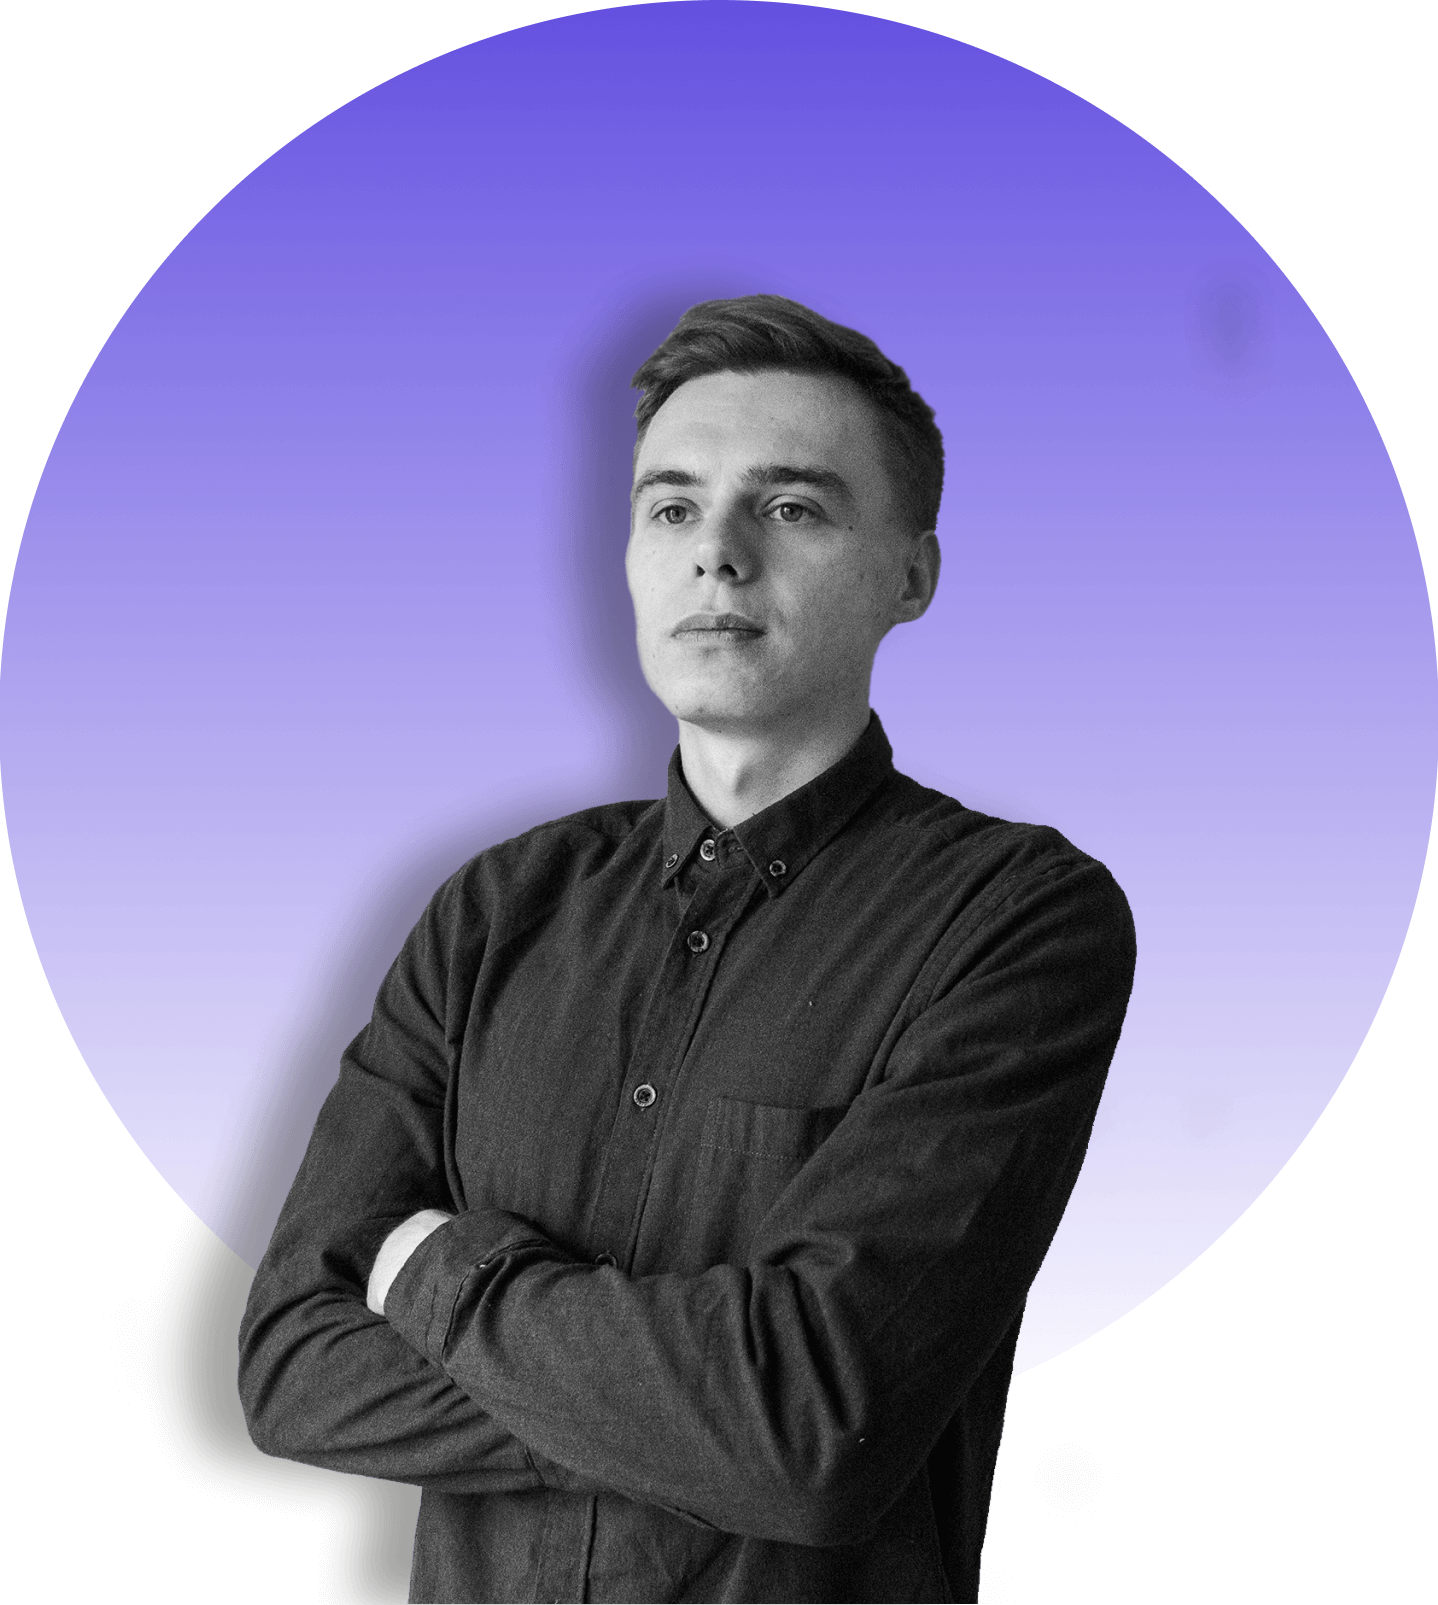
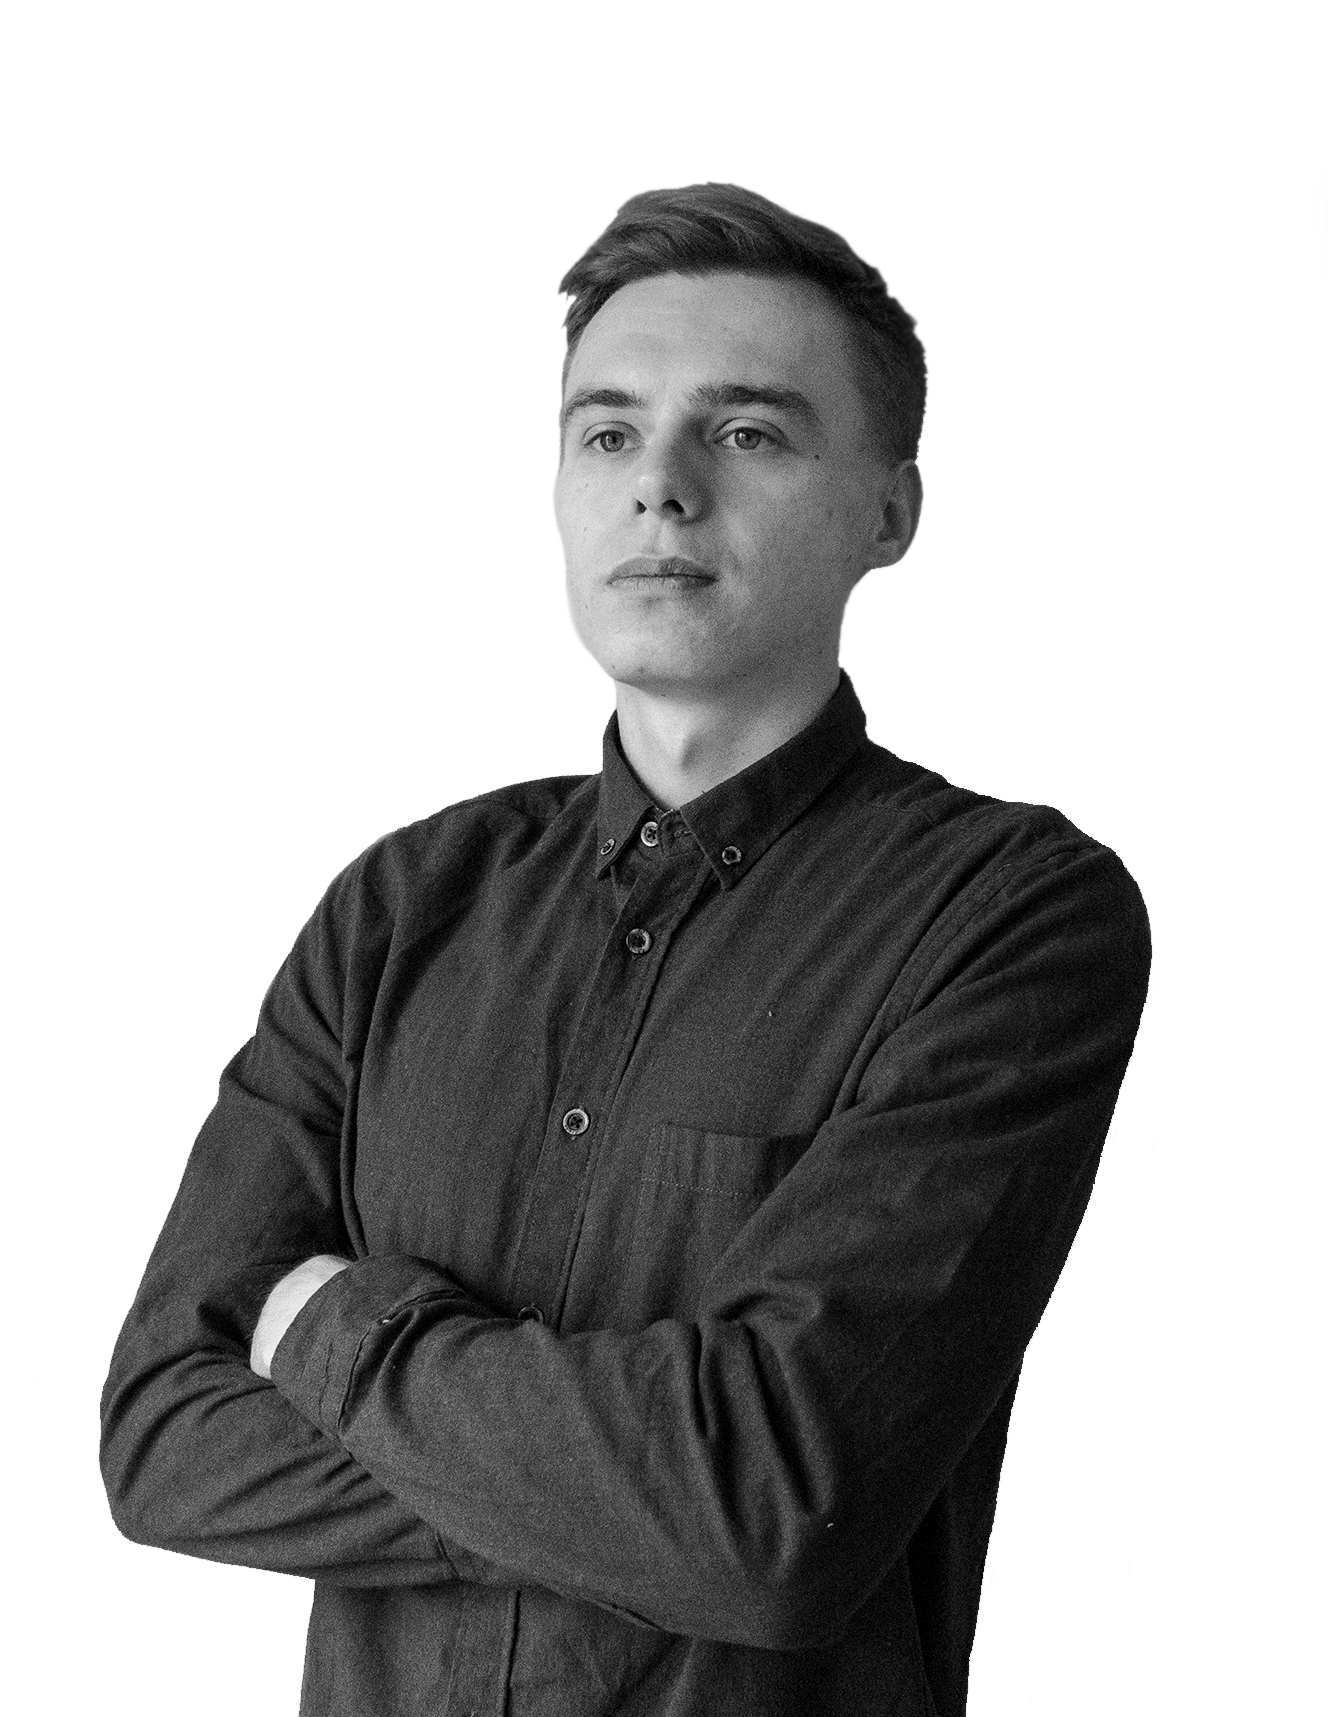
Remake hero image

diff --git a/src/style/sections/_hero.scss b/src/style/sections/_hero.scss
@@ -5,13 +5,34 @@
   justify-content: space-between;
   position: relative;
 
-  .hero-img {
-    position: absolute !important;
+  .hero-img-wrapper {
+    position: absolute;
     bottom: 4px;
     left: 50%;
-    width: clamp(540px, 75vw, 780px);
+    width: clamp(510px, 75vw, 780px);
     max-height: 100vh;
     transform: translate(-50%);
+
+    & img {
+      filter: drop-shadow(-25px 0 25px rgba($color: $primaryBackColor, $alpha: 0.6));
+      object-fit: contain !important;
+      left: 12px !important;
+    }
+  }
+
+  .hero-img-back {
+    position: relative;
+    top: -32px;
+    width: 100%;
+    height: 0;
+    padding-bottom: 100%;
+    border-radius: 50%;
+    background: linear-gradient(to top, rgba($color: $accentColor, $alpha: 0), $accentColor);
+  }
+
+  .hero-img {
+    width: 20px;
+    position: static !important;
   }
 
   .hero-watermark {
@@ -27,7 +48,7 @@
   .hero-top {
     display: flex;
     justify-content: space-between;
-    margin-top: clamp(16px, 3vw, 24px);;
+    margin-top: clamp(16px, 3vw, 24px);
     z-index: 1;
   }
 
@@ -105,6 +126,6 @@
 
   .hero-bottom-line {
     height: 4px;
-    background: linear-gradient(to right, rgba($color: $accentColor, $alpha: 0.0), $accentColor);
+    background: linear-gradient(to right, rgba($color: $accentColor, $alpha: 0), $accentColor);
   }
 }

diff --git a/src/components/Hero/Hero.tsx b/src/components/Hero/Hero.tsx
@@ -47,7 +47,10 @@ const Header = () => {
         <LinkWithArrow className="see-work" to="projects" text="See my work" />
       </div>
       <div className="hero-bottom-line"></div>
-      <ProfileImg className="hero-img" alt="profile image" filename={img} />
+      <div className="hero-img-wrapper">
+        <div className="hero-img-back"></div>
+        <ProfileImg className="hero-img" alt="profile image" filename={img} />
+      </div>
       <div className="hero-watermark">{name}</div>
     </section>
   );
